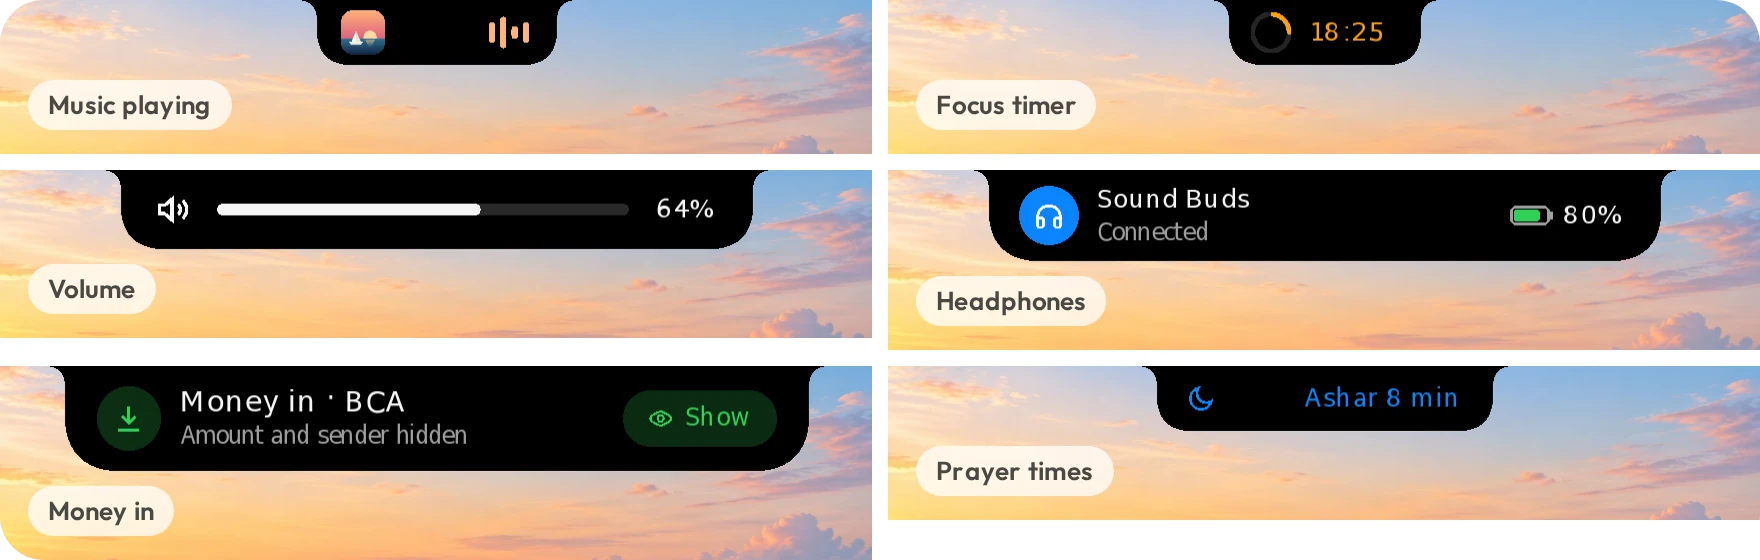
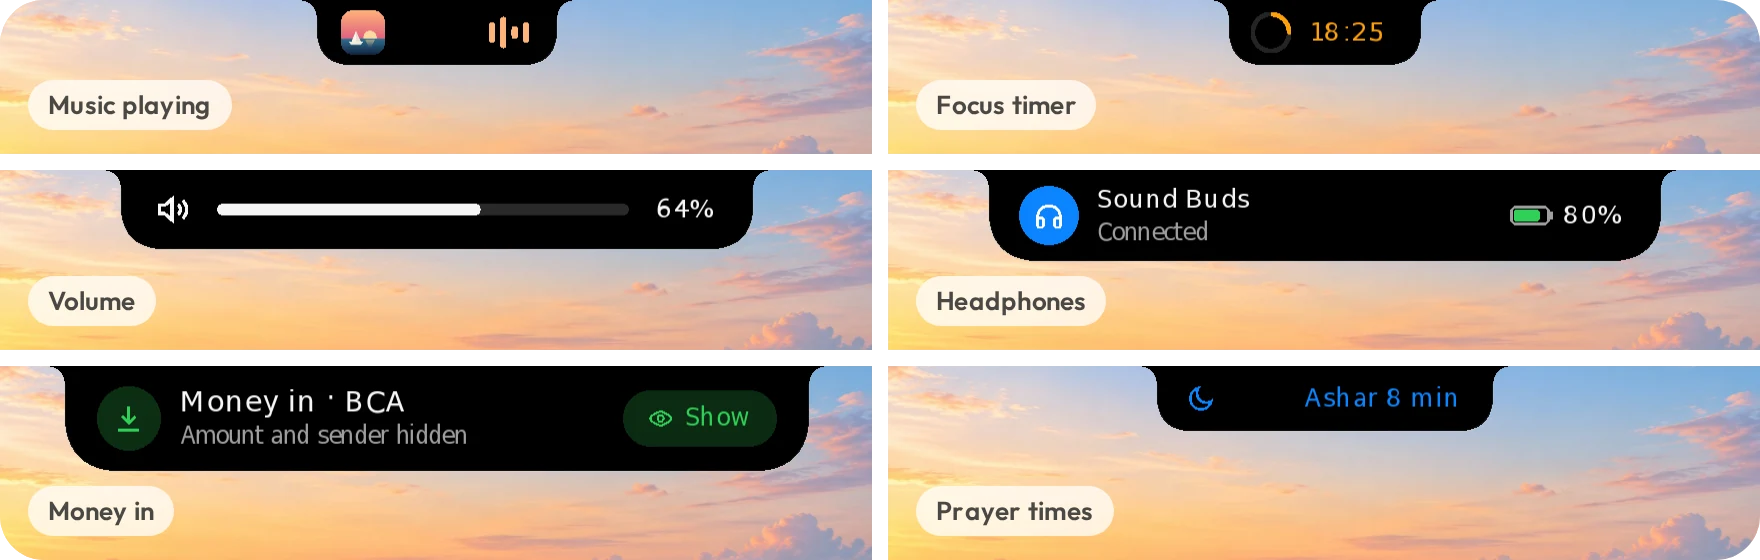
README pictures: see-through gaps between panels, equal panel heights per row
GitHub's dark theme showed the white gaps as bars.

diff --git a/tools/readme_art.html b/tools/readme_art.html
@@ -23,7 +23,8 @@
 html, body { margin: 0; background: transparent; }
 body { width: 880px; padding: 24px; font-family: "Outfit", sans-serif; -webkit-font-smoothing: antialiased; color: var(--ink); }
 img { display: block; }
-.card { position: relative; width: 880px; margin: 0 0 48px; border-radius: 22px; overflow: hidden; background: #fff; }
+/* No fill: the gaps between panels show the page, white or dark. */
+.card { position: relative; width: 880px; margin: 0 0 48px; border-radius: 22px; overflow: hidden; }
 .grid { display: grid; gap: 8px; }
 .cols-2 { grid-template-columns: repeat(2, minmax(0, 1fr)); }
 /* One "top of a screen": the sky, the island hanging from its top edge, Oyen
@@ -167,7 +168,7 @@ function layout() {
       p.style[p.dataset.side === "left" ? "left" : "right"] = off + "px";
       h = Math.max(h, p.naturalHeight * w / p.naturalWidth + 18);
     }
-    st.style.height = h + "px";
+    st.style.minHeight = h + "px";  // a grid row stretches every panel to its tallest
   }
   document.body.dataset.ready = "1";
 }
